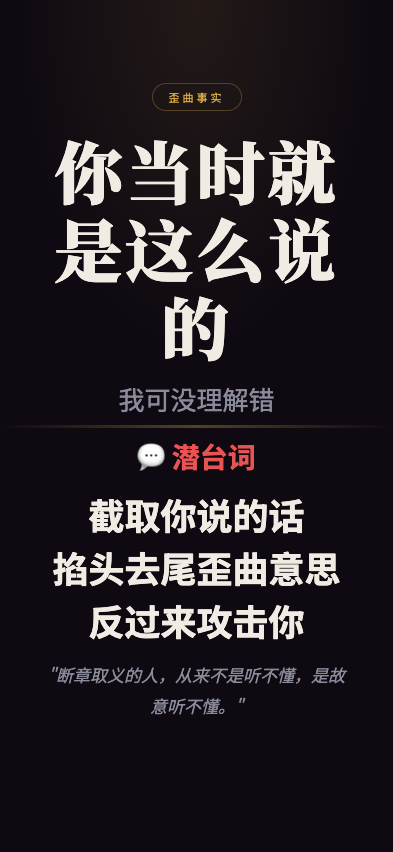
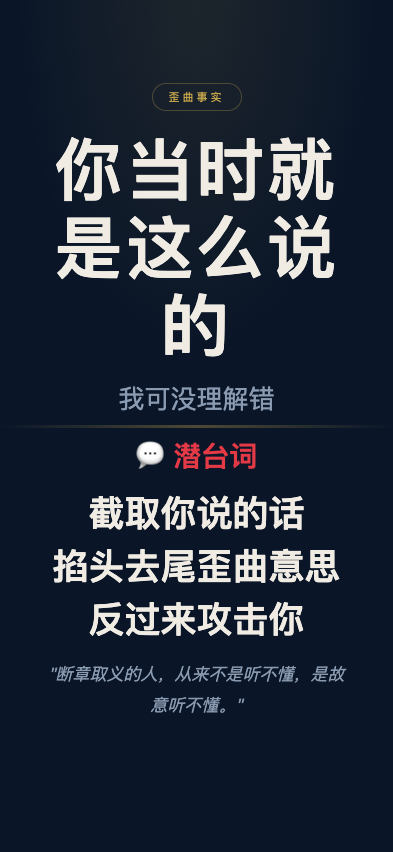
feat: 职场生存法则 screenshot - geiyewufuneng

diff --git a/wuliao-tools/tools/biz-speak/scenes/nidangshijiushizhemeshuode.html b/wuliao-tools/tools/biz-speak/scenes/nidangshijiushizhemeshuode.html
@@ -7,11 +7,11 @@
 <link href="https://fonts.googleapis.com/css2?family=Noto+Serif+SC:wght@400;700;900&family=Noto+Sans+SC:wght@300;400;700&display=swap" rel="stylesheet">
 <style>
   :root {
-    --bg: #0f0a12;
+    --bg: #0a1628;
     --text: #f0ece4;
-    --text-dim: #8a8a9a;
-    --gold: #d4a843;
-    --red: #e85454;
+    --text-dim: #8a9ab0;
+    --gold: #c9a84c;
+    --red: #e63946;
   }
   * { margin:0; padding:0; box-sizing:border-box; }
   html, body { width:100%; height:100%; overflow:hidden; }
@@ -24,11 +24,11 @@
   }
   body::before {
     content:''; position:absolute; top:0; left:0; right:0; height:45%;
-    background:radial-gradient(ellipse at 50% 0%, rgba(212,168,67,0.1) 0%, transparent 65%);
+    background:radial-gradient(ellipse at 50% 0%, rgba(201,168,76,0.1) 0%, transparent 65%);
     pointer-events:none; z-index:0;
   }
   .top { flex:1; display:flex; flex-direction:column; align-items:center; justify-content:flex-end; padding:4px 28px 8px; position:relative; z-index:1; }
-  .tag { font-size:11px; letter-spacing:3px; color:var(--gold); border:1px solid rgba(212,168,67,0.3); padding:5px 16px; border-radius:50px; margin-bottom:20px; }
+  .tag { font-size:11px; letter-spacing:3px; color:var(--gold); border:1px solid rgba(201,168,76,0.3); padding:5px 16px; border-radius:50px; margin-bottom:20px; }
   .main-title { font-family:'Noto Serif SC'; font-size:68px; font-weight:900; text-align:center; line-height:1.15; letter-spacing:3px; min-width:0; overflow-wrap:break-word; max-width:92%; }
   .sub-title { font-size:26px; color:var(--text-dim); text-align:center; margin-top:14px; }
   .divider { width:100%; height:3px; background:linear-gradient(90deg,transparent,var(--gold),transparent); opacity:0.35; flex-shrink:0; position:relative; z-index:1; }
@@ -39,7 +39,7 @@
   .quote { font-size:17px; color:var(--text-dim); font-style:italic; text-align:center; line-height:1.8; margin-top:18px; padding:0 12px; }
 </style>
 </head>
-<body>
+<body class="theme-1">
   <div class="top">
     <div class="tag">歪曲事实</div>
     <div class="main-title">你当时就是这么说的</div>
@@ -49,9 +49,7 @@
   <div class="bottom">
     <div class="truth-label">💬 潜台词</div>
     <div class="truth-lines">
-      <div class="truth-line">截取你说的话</div>
-      <div class="truth-line">掐头去尾歪曲意思</div>
-      <div class="truth-line">反过来攻击你</div>
+      <div class="truth-line">截取你说的话</div><div class="truth-line">掐头去尾歪曲意思</div><div class="truth-line">反过来攻击你</div>
     </div>
     <div class="quote">"断章取义的人，从来不是听不懂，是故意听不懂。"</div>
   </div>
